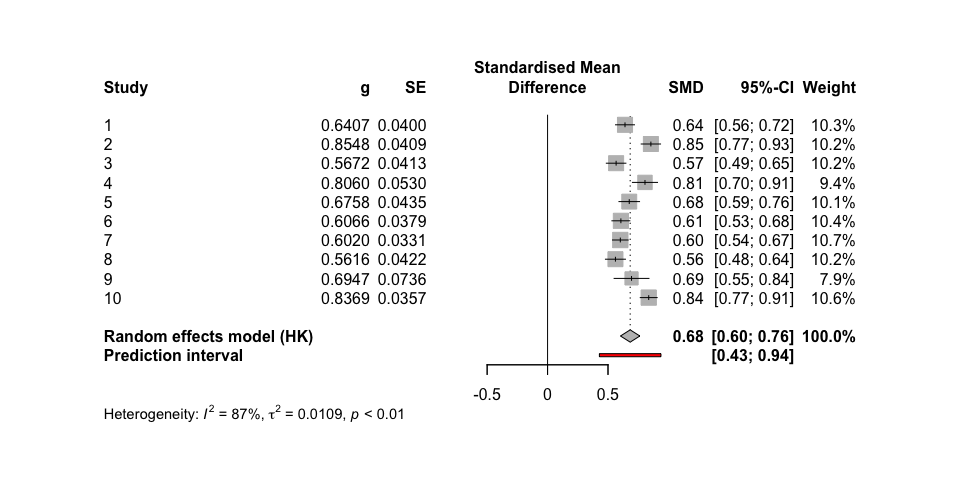
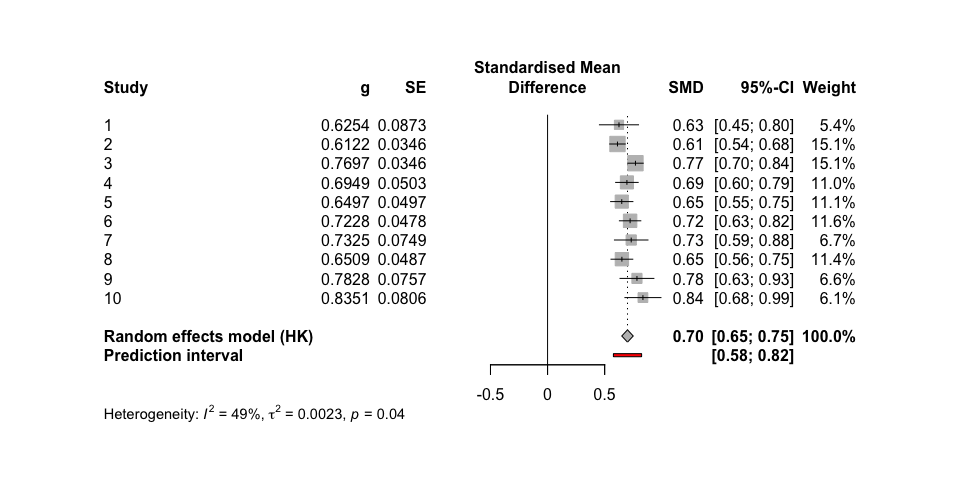
n_studies in subgroup = 20,3 groups

diff --git a/README.md b/README.md
@@ -50,12 +50,12 @@ head(sim)
 #> # A tibble: 6 × 10
 #>   study hedges_g     se   mean_x mean_y  sd_x  sd_y   n_x   n_y      vi
 #>   <int>    <dbl>  <dbl>    <dbl>  <dbl> <dbl> <dbl> <int> <int>   <dbl>
-#> 1     1    0.338 0.0777 -0.00348  0.345 1.02  1.03    336   336 0.00604
-#> 2     2    0.351 0.0462 -0.0264   0.332 1.02  1.02    951   951 0.00214
-#> 3     3    0.339 0.0709 -0.0557   0.293 1.01  1.05    404   404 0.00502
-#> 4     4    0.369 0.0552 -0.0361   0.325 0.953 1.00    668   668 0.00304
-#> 5     5    0.258 0.0348  0.0288   0.291 1.01  1.03   1666  1666 0.00121
-#> 6     6    0.269 0.0637  0.0259   0.292 0.998 0.976   497   497 0.00406
+#> 1     1    0.271 0.0472 -0.0395   0.241 1.02  1.05    907   907 0.00223
+#> 2     2    0.277 0.0328  0.0377   0.313 0.994 0.996  1881  1881 0.00107
+#> 3     3    0.169 0.0898  0.0290   0.195 0.986 0.972   249   249 0.00806
+#> 4     4    0.296 0.0345  0.0207   0.316 0.978 1.02   1694  1694 0.00119
+#> 5     5    0.292 0.0436 -0.0375   0.251 0.982 0.996  1061  1061 0.00191
+#> 6     6    0.300 0.0444 -0.00320  0.300 1.01  1.01   1026  1026 0.00197
 ```
 
 ### Effect size and standard error
@@ -94,30 +94,30 @@ meta_fixed <- metagen(TE = hedges_g,
 summary(meta_fixed)
 #> Review:     Meta-Analysis Fixed effect
 #> 
-#>       SMD           95%-CI %W(common)
-#> 1  0.3385 [0.1862; 0.4908]        4.6
-#> 2  0.3508 [0.2602; 0.4414]       13.0
-#> 3  0.3391 [0.2002; 0.4780]        5.5
-#> 4  0.3690 [0.2609; 0.4772]        9.1
-#> 5  0.2583 [0.1901; 0.3265]       22.9
-#> 6  0.2689 [0.1440; 0.3938]        6.8
-#> 7  0.3389 [0.2209; 0.4568]        7.7
-#> 8  0.3103 [0.1321; 0.4884]        3.4
-#> 9  0.2165 [0.0184; 0.4145]        2.7
-#> 10 0.3306 [0.2643; 0.3970]       24.2
+#>       SMD            95%-CI %W(common)
+#> 1  0.2708 [ 0.1784; 0.3633]        8.9
+#> 2  0.2768 [ 0.2126; 0.3410]       18.5
+#> 3  0.1689 [-0.0071; 0.3449]        2.5
+#> 4  0.2956 [ 0.2279; 0.3633]       16.7
+#> 5  0.2916 [ 0.2061; 0.3772]       10.4
+#> 6  0.3002 [ 0.2132; 0.3872]       10.1
+#> 7  0.2117 [-0.2027; 0.6260]        0.4
+#> 8  0.2565 [ 0.1886; 0.3245]       16.6
+#> 9  0.2962 [ 0.2139; 0.3784]       11.3
+#> 10 0.2380 [ 0.1084; 0.3675]        4.6
 #> 
 #> Number of studies: k = 10
 #> 
 #>                        SMD           95%-CI     z  p-value
-#> Common effect model 0.3136 [0.2810; 0.3463] 18.82 < 0.0001
+#> Common effect model 0.2774 [0.2498; 0.3051] 19.67 < 0.0001
 #> 
 #> Quantifying heterogeneity:
-#>  tau^2 < 0.0001 [0.0000; 0.0033]; tau = 0.0085 [0.0000; 0.0571]
+#>  tau^2 = 0 [0.0000; 0.0005]; tau = 0 [0.0000; 0.0219]
 #>  I^2 = 0.0% [0.0%; 62.4%]; H = 1.00 [1.00; 1.63]
 #> 
 #> Test of heterogeneity:
 #>     Q d.f. p-value
-#>  6.26    9  0.7138
+#>  3.14    9  0.9584
 #> 
 #> Details on meta-analytical method:
 #> - Inverse variance method
@@ -153,12 +153,12 @@ head(sim)
 #> # A tibble: 6 × 10
 #>   study hedges_g     se   mean_x mean_y  sd_x  sd_y   n_x   n_y      vi
 #>   <int>    <dbl>  <dbl>    <dbl>  <dbl> <dbl> <dbl> <int> <int>   <dbl>
-#> 1     1    0.641 0.0400  0.0627   0.697 0.981 0.998  1311  1311 0.00160
-#> 2     2    0.855 0.0409 -0.0306   0.823 0.977 1.02   1307  1307 0.00167
-#> 3     3    0.567 0.0413 -0.0727   0.492 1.02  0.969  1219  1219 0.00171
-#> 4     4    0.806 0.0530 -0.00846  0.794 0.994 0.996   771   771 0.00280
-#> 5     5    0.676 0.0435  0.0177   0.692 1.02  0.971  1119  1119 0.00189
-#> 6     6    0.607 0.0379  0.112    0.718 1.00  0.996  1453  1453 0.00144
+#> 1     1    0.625 0.0873  0.0706   0.703 1.01  1.01    275   275 0.00763
+#> 2     2    0.612 0.0346  0.0604   0.674 0.994 1.01   1746  1746 0.00120
+#> 3     3    0.770 0.0346 -0.0219   0.745 0.975 1.02   1793  1793 0.00120
+#> 4     4    0.695 0.0503 -0.0422   0.665 1.04  0.992   837   837 0.00253
+#> 5     5    0.650 0.0497  0.0877   0.728 0.989 0.982   851   851 0.00247
+#> 6     6    0.723 0.0478 -0.00241  0.712 0.998 0.978   931   931 0.00229
 ```
 
 ### Run Meta-Analysis on simulated data
@@ -182,29 +182,29 @@ summary(meta_random)
 #> Review:     Meta-Analysis Random Effects
 #> 
 #>       SMD           95%-CI %W(random)
-#> 1  0.6407 [0.5622; 0.7191]       10.3
-#> 2  0.8548 [0.7747; 0.9349]       10.2
-#> 3  0.5672 [0.4862; 0.6481]       10.2
-#> 4  0.8060 [0.7022; 0.9098]        9.4
-#> 5  0.6758 [0.5906; 0.7610]       10.1
-#> 6  0.6066 [0.5322; 0.6810]       10.4
-#> 7  0.6020 [0.5371; 0.6668]       10.7
-#> 8  0.5616 [0.4788; 0.6444]       10.2
-#> 9  0.6947 [0.5505; 0.8389]        7.9
-#> 10 0.8369 [0.7668; 0.9070]       10.6
+#> 1  0.6254 [0.4542; 0.7966]        5.4
+#> 2  0.6122 [0.5443; 0.6801]       15.1
+#> 3  0.7697 [0.7019; 0.8376]       15.1
+#> 4  0.6949 [0.5962; 0.7935]       11.0
+#> 5  0.6497 [0.5522; 0.7472]       11.1
+#> 6  0.7228 [0.6291; 0.8166]       11.6
+#> 7  0.7325 [0.5856; 0.8794]        6.7
+#> 8  0.6509 [0.5554; 0.7463]       11.4
+#> 9  0.7828 [0.6345; 0.9311]        6.6
+#> 10 0.8351 [0.6772; 0.9930]        6.1
 #> 
 #> Number of studies: k = 10
 #> 
 #>                              SMD           95%-CI     t  p-value
-#> Random effects model (HK) 0.6834 [0.6032; 0.7637] 19.26 < 0.0001
+#> Random effects model (HK) 0.7000 [0.6498; 0.7503] 31.49 < 0.0001
 #> 
 #> Quantifying heterogeneity:
-#>  tau^2 = 0.0109 [0.0042; 0.0393]; tau = 0.1045 [0.0645; 0.1983]
-#>  I^2 = 86.9% [77.9%; 92.3%]; H = 2.77 [2.13; 3.59]
+#>  tau^2 = 0.0023 [0.0000; 0.0140]; tau = 0.0483 [0.0000; 0.1182]
+#>  I^2 = 48.9% [0.0%; 75.3%]; H = 1.40 [1.00; 2.01]
 #> 
 #> Test of heterogeneity:
-#>      Q d.f.  p-value
-#>  68.84    9 < 0.0001
+#>      Q d.f. p-value
+#>  17.62    9  0.0398
 #> 
 #> Details on meta-analytical method:
 #> - Inverse variance method
@@ -243,12 +243,12 @@ head(sim)
 #> # A tibble: 6 × 5
 #>   study     z     r     n     se
 #>   <int> <dbl> <dbl> <int>  <dbl>
-#> 1     1 0.573 0.518  1634 0.0248
-#> 2     2 0.523 0.480   523 0.0439
-#> 3     3 0.484 0.449   942 0.0326
-#> 4     4 0.571 0.516  1700 0.0243
-#> 5     5 0.550 0.500   775 0.0360
-#> 6     6 0.569 0.515  1850 0.0233
+#> 1     1 0.546 0.497  1728 0.0241
+#> 2     2 0.523 0.480   932 0.0328
+#> 3     3 0.510 0.470   395 0.0505
+#> 4     4 0.565 0.512  1703 0.0243
+#> 5     5 0.605 0.541  1257 0.0282
+#> 6     6 0.562 0.510  1290 0.0279
 ```
 
 ### Run Meta-Analysis on simulated data
@@ -269,29 +269,29 @@ summary(meta_fixed)
 #> Review:     Meta-Analysis Fixed effect
 #> 
 #>       COR           95%-CI %W(common)
-#> 1  0.5175 [0.4811; 0.5522]       14.2
-#> 2  0.4801 [0.4113; 0.5434]        4.5
-#> 3  0.4491 [0.3966; 0.4987]        8.2
-#> 4  0.5158 [0.4800; 0.5499]       14.8
-#> 5  0.5004 [0.4457; 0.5514]        6.7
-#> 6  0.5149 [0.4806; 0.5477]       16.1
-#> 7  0.5087 [0.4654; 0.5495]       10.4
-#> 8  0.4911 [0.4404; 0.5387]        8.0
-#> 9  0.4733 [0.4242; 0.5196]        8.9
-#> 10 0.5075 [0.4590; 0.5530]        8.3
+#> 1  0.4974 [0.4610; 0.5320]       14.7
+#> 2  0.4803 [0.4293; 0.5282]        7.9
+#> 3  0.4701 [0.3894; 0.5435]        3.3
+#> 4  0.5120 [0.4761; 0.5462]       14.5
+#> 5  0.5406 [0.5003; 0.5786]       10.7
+#> 6  0.5098 [0.4682; 0.5491]       11.0
+#> 7  0.4804 [0.4336; 0.5245]        9.4
+#> 8  0.5038 [0.4504; 0.5536]        6.8
+#> 9  0.5308 [0.4704; 0.5863]        5.0
+#> 10 0.4896 [0.4551; 0.5227]       16.6
 #> 
 #> Number of studies: k = 10
 #> 
 #>                        COR           95%-CI     z p-value
-#> Common effect model 0.5009 [0.4871; 0.5145] 59.00       0
+#> Common effect model 0.5027 [0.4891; 0.5161] 59.87       0
 #> 
 #> Quantifying heterogeneity:
-#>  tau^2 = 0 [0.0000; 0.0019]; tau = 0 [0.0000; 0.0440]
+#>  tau^2 = 0 [0.0000; 0.0019]; tau = 0 [0.0000; 0.0433]
 #>  I^2 = 0.0% [0.0%; 62.4%]; H = 1.00 [1.00; 1.63]
 #> 
 #> Test of heterogeneity:
 #>     Q d.f. p-value
-#>  8.46    9  0.4885
+#>  7.82    9  0.5529
 #> 
 #> Details on meta-analytical method:
 #> - Inverse variance method
@@ -329,12 +329,12 @@ head(sim)
 #> # A tibble: 6 × 5
 #>   study     z     r     n     se
 #>   <int> <dbl> <dbl> <int>  <dbl>
-#> 1     1 0.686 0.595   381 0.0514
-#> 2     2 0.599 0.536  1601 0.0250
-#> 3     3 0.592 0.532   927 0.0329
-#> 4     4 0.502 0.464   313 0.0568
-#> 5     5 0.366 0.350  1538 0.0255
-#> 6     6 0.569 0.515   866 0.0340
+#> 1     1 0.305 0.296   861 0.0341
+#> 2     2 0.360 0.345  1856 0.0232
+#> 3     3 0.370 0.354  1967 0.0226
+#> 4     4 0.516 0.474  1816 0.0235
+#> 5     5 0.380 0.363  1570 0.0253
+#> 6     6 0.510 0.470  1388 0.0269
 ```
 
 ### Run Meta-Analysis on simulated data
@@ -356,29 +356,29 @@ summary(meta_random)
 #> Review:     Meta-Analysis Random Effects
 #> 
 #>       COR           95%-CI %W(random)
-#> 1  0.5954 [0.5264; 0.6566]        8.9
-#> 2  0.5364 [0.5006; 0.5704]       10.6
-#> 3  0.5316 [0.4838; 0.5762]       10.2
-#> 4  0.4637 [0.3719; 0.5465]        8.4
-#> 5  0.3501 [0.3054; 0.3932]       10.6
-#> 6  0.5146 [0.4639; 0.5620]       10.1
-#> 7  0.3403 [0.2896; 0.3891]       10.4
-#> 8  0.4338 [0.3839; 0.4811]       10.3
-#> 9  0.4593 [0.4112; 0.5050]       10.3
-#> 10 0.4538 [0.4006; 0.5040]       10.1
+#> 1  0.2959 [0.2337; 0.3557]       10.0
+#> 2  0.3450 [0.3043; 0.3845]       10.6
+#> 3  0.3539 [0.3146; 0.3920]       10.7
+#> 4  0.4743 [0.4378; 0.5092]       10.6
+#> 5  0.3631 [0.3193; 0.4053]       10.5
+#> 6  0.4701 [0.4281; 0.5101]       10.4
+#> 7  0.4041 [0.3636; 0.4431]       10.6
+#> 8  0.2984 [0.2103; 0.3817]        9.0
+#> 9  0.5481 [0.5057; 0.5879]       10.3
+#> 10 0.3920 [0.2688; 0.5026]        7.3
 #> 
 #> Number of studies: k = 10
 #> 
 #>                              COR           95%-CI     t  p-value
-#> Random effects model (HK) 0.4692 [0.4095; 0.5249] 15.55 < 0.0001
+#> Random effects model (HK) 0.3992 [0.3373; 0.4576] 13.35 < 0.0001
 #> 
 #> Quantifying heterogeneity:
-#>  tau^2 = 0.0095 [0.0038; 0.0345]; tau = 0.0972 [0.0618; 0.1858]
-#>  I^2 = 90.6% [84.8%; 94.1%]; H = 3.25 [2.56; 4.13]
+#>  tau^2 = 0.0090 [0.0037; 0.0320]; tau = 0.0950 [0.0604; 0.1788]
+#>  I^2 = 91.0% [85.7%; 94.4%]; H = 3.34 [2.64; 4.23]
 #> 
 #> Test of heterogeneity:
-#>      Q d.f.  p-value
-#>  95.30    9 < 0.0001
+#>       Q d.f.  p-value
+#>  100.51    9 < 0.0001
 #> 
 #> Details on meta-analytical method:
 #> - Inverse variance method
@@ -403,28 +403,28 @@ metafor::forest(meta_random,
 ``` r
 sim <- sim_meta(min_obs = 200,
          max_obs = 2000,
-         n_studies = 15,
-         smd_true = 0.6,
+         n_studies = 30,
+         smd_true = 0.2,
          r_true = 0,
          es = 'SMD',
          random = TRUE,
          tau = 0.1,
          metaregression = TRUE,
          mod_varname = c('subgroup'),
-         mod_labels = c('group1', 'group2'),
-         mod_effect = 0.2)
+         mod_labels = c('group1', 'group2', 'group3'),
+         mod_effect = c(0.2, 0.4))
 
 head(sim %>% 
        select(study, hedges_g, subgroup, everything()))
 #> # A tibble: 6 × 11
 #>   study hedges_g subgroup     se   mean_x mean_y  sd_x  sd_y   n_x   n_y      vi
 #>   <int>    <dbl> <chr>     <dbl>    <dbl>  <dbl> <dbl> <dbl> <int> <int>   <dbl>
-#> 1     1    0.901 group2   0.0365 -0.162    0.753 1.01  1.02   1658  1658 0.00133
-#> 2     2    0.929 group2   0.0339 -0.00998  0.910 0.986 0.995  1927  1927 0.00115
-#> 3     3    0.867 group1   0.0463 -0.172    0.704 1.01  1.01   1022  1022 0.00214
-#> 4     4    0.709 group1   0.0445  0.0863   0.770 0.962 0.966  1072  1072 0.00198
-#> 5     5    0.632 group1   0.0379  0.0451   0.677 1.00  0.996  1460  1460 0.00144
-#> 6     6    0.631 group1   0.0405 -0.0923   0.525 0.982 0.976  1278  1278 0.00164
+#> 1     1    0.370 group2   0.0902 -0.0109   0.359 0.976 1.02    250   250 0.00814
+#> 2     2    0.435 group2   0.0354 -0.0492   0.386 1.01  0.995  1638  1638 0.00125
+#> 3     3    0.166 group2   0.0430  0.332    0.495 0.988 0.975  1083  1083 0.00185
+#> 4     4    0.324 group1   0.0377 -0.0265   0.301 1.02  0.997  1422  1422 0.00142
+#> 5     5    0.189 group1   0.0714  0.0664   0.253 0.989 0.978   394   394 0.00510
+#> 6     6    0.218 group2   0.0487  0.00121  0.222 1.03  0.990   848   848 0.00237
 ```
 
 ### Run Meta-Analysis on simulated data
@@ -445,50 +445,66 @@ meta_random <- metagen(TE = hedges_g,
 summary(meta_random)
 #> Review:     Meta-Analysis Random Effects
 #> 
-#>       SMD           95%-CI %W(random) subgroup
-#> 1  0.9007 [0.8293; 0.9722]        6.9   group2
-#> 2  0.9289 [0.8624; 0.9953]        6.9   group2
-#> 3  0.8668 [0.7761; 0.9575]        6.7   group1
-#> 4  0.7088 [0.6215; 0.7960]        6.7   group1
-#> 5  0.6323 [0.5580; 0.7067]        6.9   group1
-#> 6  0.6308 [0.5513; 0.7102]        6.8   group1
-#> 7  0.5823 [0.4839; 0.6807]        6.6   group1
-#> 8  0.5846 [0.5180; 0.6511]        6.9   group1
-#> 9  0.6132 [0.5314; 0.6951]        6.8   group1
-#> 10 0.4513 [0.3286; 0.5741]        6.2   group1
-#> 11 0.6526 [0.5819; 0.7233]        6.9   group1
-#> 12 0.6624 [0.5891; 0.7358]        6.9   group1
-#> 13 0.5574 [0.4588; 0.6559]        6.6   group1
-#> 14 1.0014 [0.8655; 1.1373]        6.0   group2
-#> 15 0.4792 [0.3591; 0.5992]        6.3   group1
+#>       SMD            95%-CI %W(random) subgroup
+#> 1  0.3705 [ 0.1937; 0.5473]        3.0   group2
+#> 2  0.4349 [ 0.3656; 0.5042]        3.4   group2
+#> 3  0.1657 [ 0.0813; 0.2500]        3.4   group2
+#> 4  0.3241 [ 0.2501; 0.3980]        3.4   group1
+#> 5  0.1894 [ 0.0495; 0.3294]        3.2   group1
+#> 6  0.2184 [ 0.1229; 0.3139]        3.3   group2
+#> 7  0.1790 [ 0.0841; 0.2738]        3.3   group1
+#> 8  0.9167 [ 0.8343; 0.9991]        3.4   group3
+#> 9  0.4825 [ 0.4157; 0.5494]        3.4   group2
+#> 10 0.0329 [-0.0831; 0.1489]        3.3   group1
+#> 11 0.0983 [-0.0028; 0.1994]        3.3   group1
+#> 12 0.8072 [ 0.7329; 0.8816]        3.4   group3
+#> 13 0.2497 [ 0.1823; 0.3171]        3.4   group1
+#> 14 0.2535 [ 0.1769; 0.3301]        3.4   group1
+#> 15 0.5440 [ 0.4763; 0.6117]        3.4   group2
+#> 16 0.0730 [-0.0203; 0.1663]        3.3   group1
+#> 17 0.7317 [ 0.6490; 0.8143]        3.4   group3
+#> 18 0.3556 [ 0.2292; 0.4821]        3.2   group2
+#> 19 0.0936 [ 0.0220; 0.1652]        3.4   group1
+#> 20 0.5071 [ 0.4433; 0.5709]        3.4   group2
+#> 21 0.1577 [ 0.0945; 0.2209]        3.4   group1
+#> 22 0.7728 [ 0.7070; 0.8385]        3.4   group3
+#> 23 0.2391 [ 0.1170; 0.3612]        3.2   group2
+#> 24 0.2727 [ 0.1527; 0.3928]        3.3   group2
+#> 25 0.1695 [ 0.0850; 0.2540]        3.4   group2
+#> 26 0.4096 [ 0.3096; 0.5095]        3.3   group2
+#> 27 0.0765 [-0.0078; 0.1608]        3.4   group1
+#> 28 0.1310 [ 0.0390; 0.2231]        3.3   group1
+#> 29 0.5283 [ 0.4633; 0.5933]        3.4   group2
+#> 30 0.7506 [ 0.6638; 0.8374]        3.3   group3
 #> 
-#> Number of studies: k = 15
+#> Number of studies: k = 30
 #> 
-#>                              SMD           95%-CI     t  p-value
-#> Random effects model (HK) 0.6841 [0.5934; 0.7747] 16.19 < 0.0001
+#>                              SMD           95%-CI    t  p-value
+#> Random effects model (HK) 0.3525 [0.2597; 0.4453] 7.76 < 0.0001
 #> 
 #> Quantifying heterogeneity:
-#>  tau^2 = 0.0240 [0.0119; 0.0656]; tau = 0.1548 [0.1092; 0.2562]
-#>  I^2 = 92.0% [88.4%; 94.4%]; H = 3.53 [2.94; 4.24]
+#>  tau^2 = 0.0600 [0.0371; 0.1091]; tau = 0.2449 [0.1926; 0.3303]
+#>  I^2 = 97.2% [96.7%; 97.7%]; H = 6.01 [5.48; 6.59]
 #> 
 #> Test of heterogeneity:
-#>       Q d.f.  p-value
-#>  174.70   14 < 0.0001
+#>        Q d.f.  p-value
+#>  1047.35   29 < 0.0001
 #> 
 #> Results for subgroups (random effects model (HK)):
-#>                     k    SMD           95%-CI   tau^2    tau     Q   I^2
-#> subgroup = group2   3 0.9256 [0.8336; 1.0175] <0.0001 0.0020  1.67  0.0%
-#> subgroup = group1  12 0.6228 [0.5567; 0.6890]  0.0082 0.0905 49.60 77.8%
+#>                     k    SMD           95%-CI  tau^2    tau      Q   I^2
+#> subgroup = group2  13 0.3650 [0.2811; 0.4490] 0.0176 0.1325 133.61 91.0%
+#> subgroup = group1  12 0.1582 [0.1020; 0.2145] 0.0060 0.0775  48.08 77.1%
+#> subgroup = group3   5 0.7957 [0.7063; 0.8850] 0.0034 0.0585  12.18 67.2%
 #> 
 #> Test for subgroup differences (random effects model (HK)):
-#>                    Q d.f.  p-value
-#> Between groups 67.38    1 < 0.0001
+#>                     Q d.f.  p-value
+#> Between groups 241.36    2 < 0.0001
 #> 
 #> Details on meta-analytical method:
 #> - Inverse variance method
 #> - Restricted maximum-likelihood estimator for tau^2
 #> - Q-Profile method for confidence interval of tau^2 and tau
-#> - Hartung-Knapp adjustment for random effects model (df = 14)
+#> - Hartung-Knapp adjustment for random effects model (df = 29)
 
 
 metafor::forest(meta_random,
